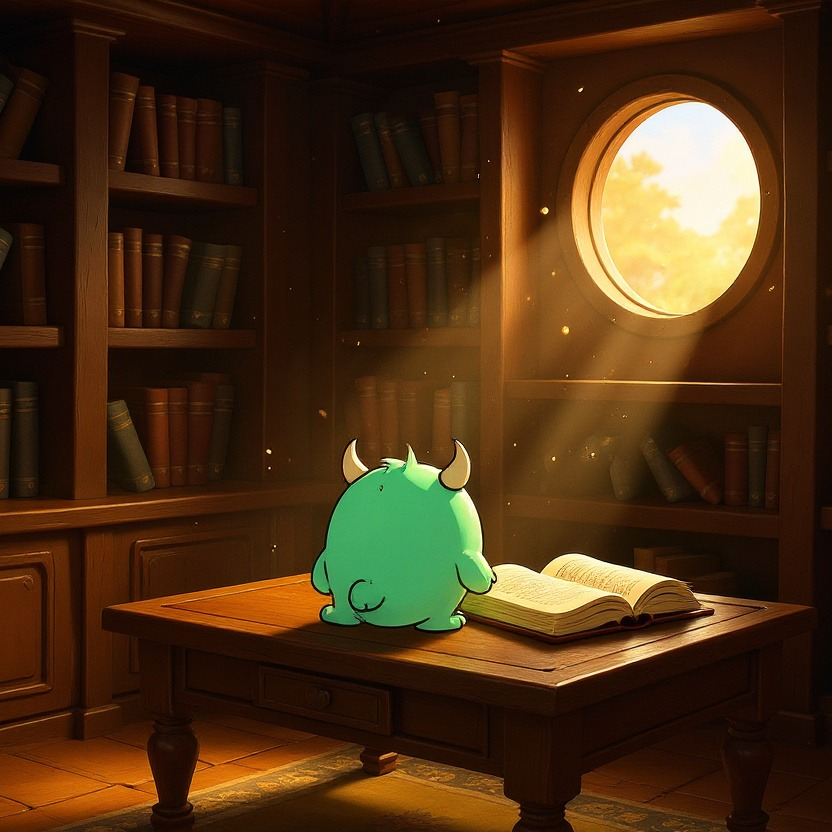
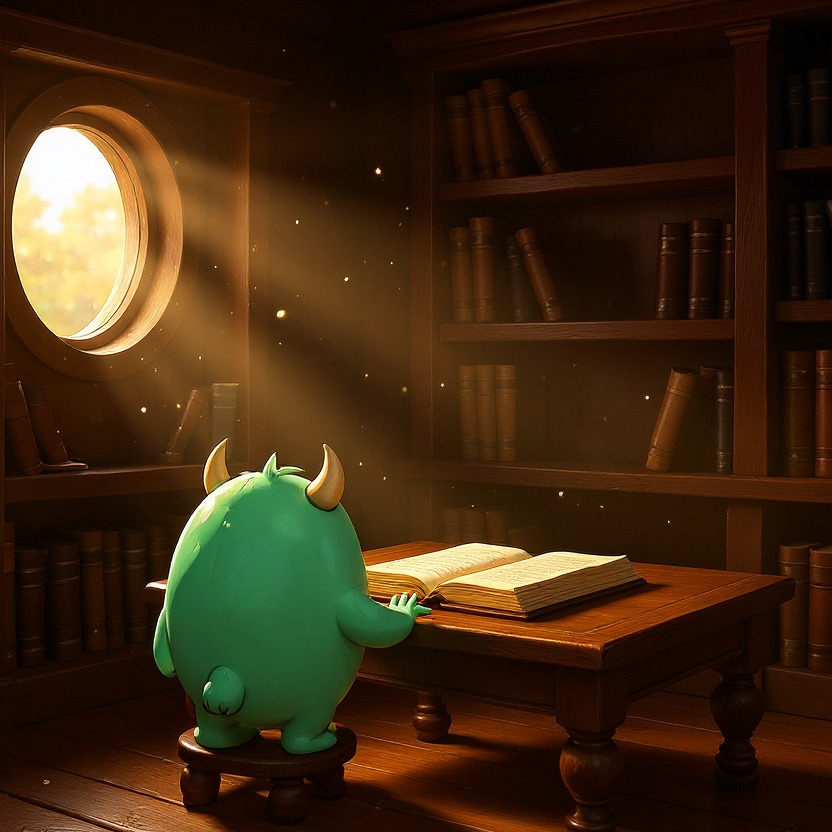
assets: flashcard covers 2.5D Pixar + restore clean index.html

diff --git a/index.html b/index.html
@@ -8,10 +8,9 @@
     <link rel="preconnect" href="https://fonts.gstatic.com" crossorigin />
     <link href="https://fonts.googleapis.com/css2?family=Baloo+2:wght@600;700;800&display=swap" rel="stylesheet" />
     <title>Gramlingo — Grammar Quest</title>
-    <script type="module" crossorigin src="/gramlingo/assets/index-HEnL6XFx.js"></script>
-    <link rel="stylesheet" crossorigin href="/gramlingo/assets/index-BYds5jOy.css">
   </head>
   <body>
-    <div id="root"></div>
+    <div id="root"></div>
+    <script type="module" src="/src/main.tsx"></script>
   </body>
 </html>
